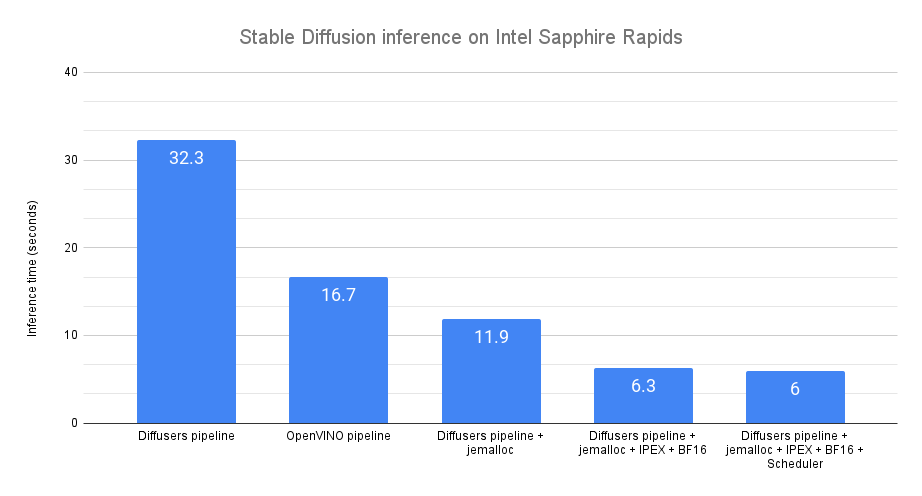
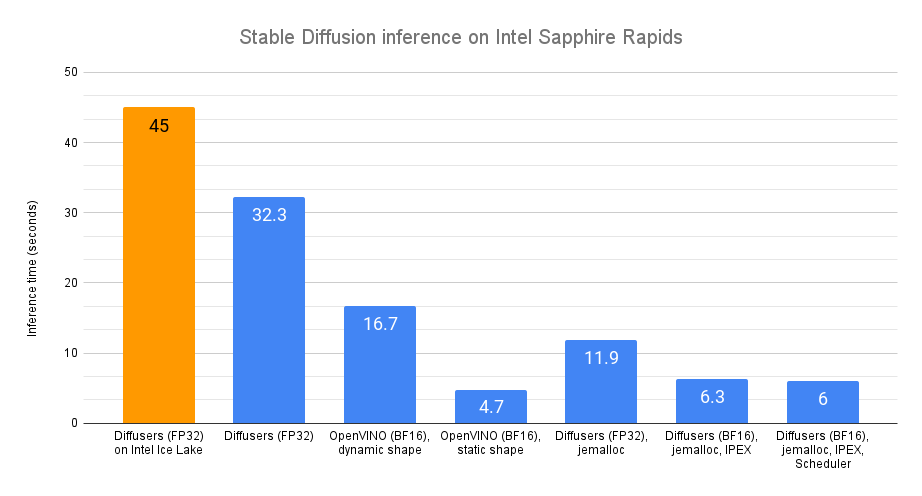
Add fixed input shape

diff --git a/stable_diffusion_inference_intel.md b/stable_diffusion_inference_intel.md
@@ -83,9 +83,23 @@ latency = elapsed_time(ov_pipe, prompt)
 print(latency)
 ```
 
-OpenVINO automatically optimizes the model for the `bfloat16` format. Thanks to this, its average latency is now **16.7 seconds**, a sweet 2x speedup. If that's fast enough for you, then you can stop reading and go back to building cool things with Diffusers :)
+OpenVINO automatically optimizes the model for the `bfloat16` format. Thanks to this, the average latency is now **16.7 seconds**, a sweet 2x speedup.
 
-If not, or if you can't use OpenVINO, the rest of this post will show you a series of increasingly advanced optimization techniques. Fasten your seatbelt!
+The pipeline above support dynamic input shapes, with no restriction on the number of images or their resolution. If your application can support a static input shape (say, always generate a single 512x512 image), you can unlock significant acceleration by reshaping the pipeline.
+
+```
+ov_pipe_static = OVStableDiffusionPipeline.from_pretrained(model_id, export=True)
+ov_pipe_static.reshape(batch_size=1, height=512, width=512, num_images_per_prompt=1)
+
+latency = elapsed_time(ov_pipe_static, prompt)
+print(latency)
+```
+
+With a static shape, average latency is slashed to **4.7 seconds**, an additional 3.5x speedup. 
+
+As you can see, OpenVINO is a simple and efficient way to accelerate Stable Diffusion inference. When combined with a Sapphire Rapids CPU, it delivers almost 10x speedup compared to vanilla inference on Ice Lake Xeons.
+
+If you can't or don't want to use OpenVINO, the rest of this post will show you a series of other optimization techniques. Fasten your seatbelt!
 
 ## Memory allocation
 
